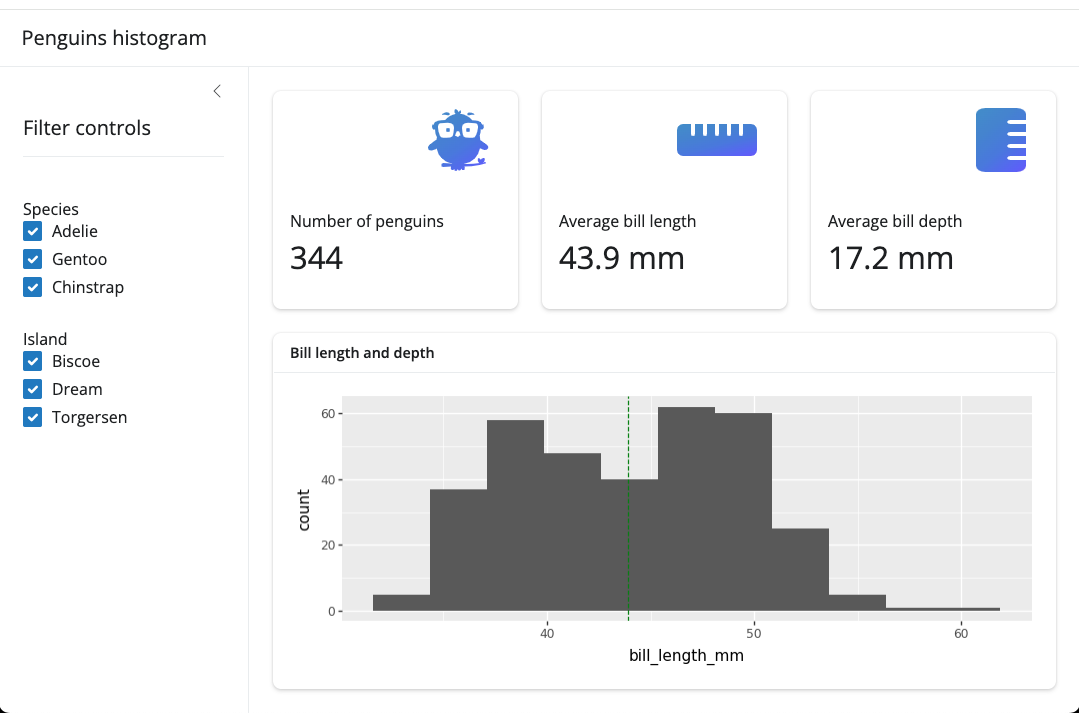
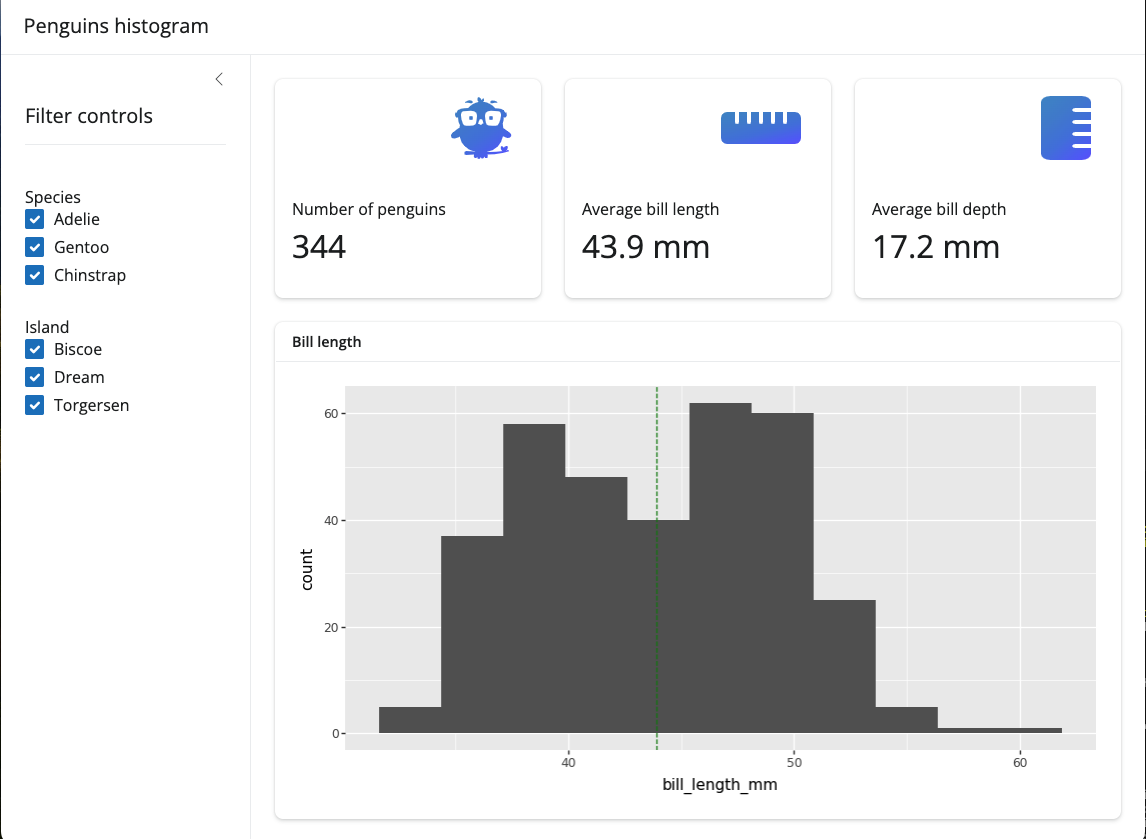
誤記訂正

diff --git a/docs/posts/shiny_for_python/index.html b/docs/posts/shiny_for_python/index.html
@@ -213,7 +213,7 @@ gtag('config', 'G-7CEVE5761Z', { 'anonymize_ip': true});
 <section id="ペンギンのヒストグラムのダッシュボード" class="level2" data-number="1">
 <h2 data-number="1" class="anchored" data-anchor-id="ペンギンのヒストグラムのダッシュボード"><span class="header-section-number">1</span> ペンギンのヒストグラムのダッシュボード</h2>
 <p>下記のコードを<code>app.py</code>として保存する。</p>
-<div id="c232ae21" class="cell" data-execution_count="1">
+<div id="31737760" class="cell" data-execution_count="1">
 <div class="sourceCode cell-code" id="cb1"><pre class="sourceCode python code-with-copy"><code class="sourceCode python"><span id="cb1-1"><a href="#cb1-1" aria-hidden="true" tabindex="-1"></a><span class="im">from</span> pathlib <span class="im">import</span> Path</span>
 <span id="cb1-2"><a href="#cb1-2" aria-hidden="true" tabindex="-1"></a><span class="im">from</span> plotnine <span class="im">import</span> ggplot, aes, geom_histogram, geom_vline</span>
 <span id="cb1-3"><a href="#cb1-3" aria-hidden="true" tabindex="-1"></a><span class="im">from</span> faicons <span class="im">import</span> icon_svg</span>
@@ -265,10 +265,10 @@ gtag('config', 'G-7CEVE5761Z', { 'anonymize_ip': true});
 <span id="cb1-49"><a href="#cb1-49" aria-hidden="true" tabindex="-1"></a></span>
 <span id="cb1-50"><a href="#cb1-50" aria-hidden="true" tabindex="-1"></a><span class="cf">with</span> ui.layout_columns():</span>
 <span id="cb1-51"><a href="#cb1-51" aria-hidden="true" tabindex="-1"></a>    <span class="cf">with</span> ui.card(full_screen<span class="op">=</span><span class="va">True</span>):</span>
-<span id="cb1-52"><a href="#cb1-52" aria-hidden="true" tabindex="-1"></a>        ui.card_header(<span class="st">"Bill length and depth"</span>)</span>
+<span id="cb1-52"><a href="#cb1-52" aria-hidden="true" tabindex="-1"></a>        ui.card_header(<span class="st">"Bill length"</span>)</span>
 <span id="cb1-53"><a href="#cb1-53" aria-hidden="true" tabindex="-1"></a></span>
 <span id="cb1-54"><a href="#cb1-54" aria-hidden="true" tabindex="-1"></a>        <span class="at">@render.plot</span></span>
-<span id="cb1-55"><a href="#cb1-55" aria-hidden="true" tabindex="-1"></a>        <span class="kw">def</span> length_depth():</span>
+<span id="cb1-55"><a href="#cb1-55" aria-hidden="true" tabindex="-1"></a>        <span class="kw">def</span> length():</span>
 <span id="cb1-56"><a href="#cb1-56" aria-hidden="true" tabindex="-1"></a>            <span class="cf">return</span> (</span>
 <span id="cb1-57"><a href="#cb1-57" aria-hidden="true" tabindex="-1"></a>                ggplot(filtered_df(), aes(x<span class="op">=</span><span class="st">"bill_length_mm"</span>))</span>
 <span id="cb1-58"><a href="#cb1-58" aria-hidden="true" tabindex="-1"></a>                <span class="op">+</span> geom_histogram()</span>
@@ -289,6 +289,8 @@ gtag('config', 'G-7CEVE5761Z', { 'anonymize_ip': true});
 <p>下記を実行するとブラウザで下図のようなダッシュボードが出てくる。</p>
 <pre><code>python3 -m shiny run --launch-browser app.py</code></pre>
 <p><img src="histogram_shiny.png" class="img-fluid"></p>
+<p>app.pyのファイルは下記</p>
+<p>https://github.com/Nobukuni-Hyakutake/statistics/blob/724a2344982aa25408accf4f82373388a0298972/trial/shiny_dashboard_02/app.py</p>
 </section>
 <section id="参考文献" class="level2" data-number="2">
 <h2 data-number="2" class="anchored" data-anchor-id="参考文献"><span class="header-section-number">2</span> 参考文献</h2>
@@ -298,7 +300,7 @@ gtag('config', 'G-7CEVE5761Z', { 'anonymize_ip': true});
 </section>
 <section id="python-version" class="level2" data-number="3">
 <h2 data-number="3" class="anchored" data-anchor-id="python-version"><span class="header-section-number">3</span> Python version</h2>
-<div id="5ccaba33" class="cell" data-execution_count="2">
+<div id="d3c9b1e4" class="cell" data-execution_count="2">
 <div class="sourceCode cell-code" id="cb3"><pre class="sourceCode python code-with-copy"><code class="sourceCode python"><span id="cb3-1"><a href="#cb3-1" aria-hidden="true" tabindex="-1"></a><span class="im">import</span> platform</span>
 <span id="cb3-2"><a href="#cb3-2" aria-hidden="true" tabindex="-1"></a><span class="co">"Python version "</span><span class="op">+</span>platform.python_version()</span></code><button title="Copy to Clipboard" class="code-copy-button"><i class="bi"></i></button></pre></div>
 <div class="cell-output cell-output-display" data-execution_count="1">
@@ -832,10 +834,10 @@ gtag('config', 'G-7CEVE5761Z', { 'anonymize_ip': true});
 <span id="cb5-70"><a href="#cb5-70" aria-hidden="true" tabindex="-1"></a></span>
 <span id="cb5-71"><a href="#cb5-71" aria-hidden="true" tabindex="-1"></a><span class="cf">with</span> ui.layout_columns():</span>
 <span id="cb5-72"><a href="#cb5-72" aria-hidden="true" tabindex="-1"></a>    <span class="cf">with</span> ui.card(full_screen<span class="op">=</span><span class="va">True</span>):</span>
-<span id="cb5-73"><a href="#cb5-73" aria-hidden="true" tabindex="-1"></a>        ui.card_header(<span class="st">"Bill length and depth"</span>)</span>
+<span id="cb5-73"><a href="#cb5-73" aria-hidden="true" tabindex="-1"></a>        ui.card_header(<span class="st">"Bill length"</span>)</span>
 <span id="cb5-74"><a href="#cb5-74" aria-hidden="true" tabindex="-1"></a></span>
 <span id="cb5-75"><a href="#cb5-75" aria-hidden="true" tabindex="-1"></a>        <span class="at">@render.plot</span></span>
-<span id="cb5-76"><a href="#cb5-76" aria-hidden="true" tabindex="-1"></a>        <span class="kw">def</span> length_depth():</span>
+<span id="cb5-76"><a href="#cb5-76" aria-hidden="true" tabindex="-1"></a>        <span class="kw">def</span> length():</span>
 <span id="cb5-77"><a href="#cb5-77" aria-hidden="true" tabindex="-1"></a>            <span class="cf">return</span> (</span>
 <span id="cb5-78"><a href="#cb5-78" aria-hidden="true" tabindex="-1"></a>                ggplot(filtered_df(), aes(x<span class="op">=</span><span class="st">"bill_length_mm"</span>))</span>
 <span id="cb5-79"><a href="#cb5-79" aria-hidden="true" tabindex="-1"></a>                <span class="op">+</span> geom_histogram()</span>
@@ -863,16 +865,20 @@ gtag('config', 'G-7CEVE5761Z', { 'anonymize_ip': true});
 <span id="cb5-101"><a href="#cb5-101" aria-hidden="true" tabindex="-1"></a></span>
 <span id="cb5-102"><a href="#cb5-102" aria-hidden="true" tabindex="-1"></a><span class="al">![](histogram_shiny.png)</span></span>
 <span id="cb5-103"><a href="#cb5-103" aria-hidden="true" tabindex="-1"></a></span>
-<span id="cb5-104"><a href="#cb5-104" aria-hidden="true" tabindex="-1"></a><span class="fu">## 参考文献</span></span>
+<span id="cb5-104"><a href="#cb5-104" aria-hidden="true" tabindex="-1"></a>app.pyのファイルは下記</span>
 <span id="cb5-105"><a href="#cb5-105" aria-hidden="true" tabindex="-1"></a></span>
-<span id="cb5-106"><a href="#cb5-106" aria-hidden="true" tabindex="-1"></a><span class="ss">- </span><span class="co">[</span><span class="ot">Shiny &gt; Install, create, &amp; run</span><span class="co">](https://shiny.posit.co/py/docs/install-create-run.html)</span></span>
+<span id="cb5-106"><a href="#cb5-106" aria-hidden="true" tabindex="-1"></a>https://github.com/Nobukuni-Hyakutake/statistics/blob/724a2344982aa25408accf4f82373388a0298972/trial/shiny_dashboard_02/app.py</span>
 <span id="cb5-107"><a href="#cb5-107" aria-hidden="true" tabindex="-1"></a></span>
-<span id="cb5-108"><a href="#cb5-108" aria-hidden="true" tabindex="-1"></a><span class="fu">## Python version</span></span>
+<span id="cb5-108"><a href="#cb5-108" aria-hidden="true" tabindex="-1"></a><span class="fu">## 参考文献</span></span>
 <span id="cb5-109"><a href="#cb5-109" aria-hidden="true" tabindex="-1"></a></span>
-<span id="cb5-112"><a href="#cb5-112" aria-hidden="true" tabindex="-1"></a><span class="in">```{python}</span></span>
-<span id="cb5-113"><a href="#cb5-113" aria-hidden="true" tabindex="-1"></a><span class="im">import</span> platform</span>
-<span id="cb5-114"><a href="#cb5-114" aria-hidden="true" tabindex="-1"></a><span class="co">"Python version "</span><span class="op">+</span>platform.python_version()</span>
-<span id="cb5-115"><a href="#cb5-115" aria-hidden="true" tabindex="-1"></a><span class="in">```</span></span>
+<span id="cb5-110"><a href="#cb5-110" aria-hidden="true" tabindex="-1"></a><span class="ss">- </span><span class="co">[</span><span class="ot">Shiny &gt; Install, create, &amp; run</span><span class="co">](https://shiny.posit.co/py/docs/install-create-run.html)</span></span>
+<span id="cb5-111"><a href="#cb5-111" aria-hidden="true" tabindex="-1"></a></span>
+<span id="cb5-112"><a href="#cb5-112" aria-hidden="true" tabindex="-1"></a><span class="fu">## Python version</span></span>
+<span id="cb5-113"><a href="#cb5-113" aria-hidden="true" tabindex="-1"></a></span>
+<span id="cb5-116"><a href="#cb5-116" aria-hidden="true" tabindex="-1"></a><span class="in">```{python}</span></span>
+<span id="cb5-117"><a href="#cb5-117" aria-hidden="true" tabindex="-1"></a><span class="im">import</span> platform</span>
+<span id="cb5-118"><a href="#cb5-118" aria-hidden="true" tabindex="-1"></a><span class="co">"Python version "</span><span class="op">+</span>platform.python_version()</span>
+<span id="cb5-119"><a href="#cb5-119" aria-hidden="true" tabindex="-1"></a><span class="in">```</span></span>
 </code><button title="Copy to Clipboard" class="code-copy-button" data-in-quarto-modal=""><i class="bi"></i></button></pre></div>
 </div></div></div></div></div>
 </div> <!-- /content -->

diff --git a/docs/index.html b/docs/index.html
@@ -301,7 +301,7 @@ Categories
 </thead>
 <tbody class="list">
 
-<tr data-index="0" data-categories="UHl0aG9u" data-listing-date-sort="1745679600000" data-listing-file-modified-sort="1745722432577" data-listing-date-modified-sort="NaN" data-listing-reading-time-sort="3" data-listing-word-count-sort="481" data-listing-title-sort="Shiny for Python" data-listing-filename-sort="index.qmd">
+<tr data-index="0" data-categories="UHl0aG9u" data-listing-date-sort="1745679600000" data-listing-file-modified-sort="1745723587296" data-listing-date-modified-sort="NaN" data-listing-reading-time-sort="3" data-listing-word-count-sort="479" data-listing-title-sort="Shiny for Python" data-listing-filename-sort="index.qmd">
 <td>
 <span class="listing-image"><img loading="lazy" src="./posts/shiny_for_python/field_mustard.jpeg" style="height: 40px;"></span>
 </td>

diff --git a/trial/shiny_dashboard_02/app.py b/trial/shiny_dashboard_02/app.py
@@ -1,4 +1,5 @@
 # https://shiny.posit.co/py/docs/overview.html#templates
+
 from pathlib import Path
 from plotnine import ggplot, aes, geom_histogram, geom_vline
 from faicons import icon_svg
@@ -50,10 +51,10 @@ with ui.layout_column_wrap(fill=False):
 
 with ui.layout_columns():
     with ui.card(full_screen=True):
-        ui.card_header("Bill length and depth")
+        ui.card_header("Bill length")
 
         @render.plot
-        def length_depth():
+        def length():
             return (
                 ggplot(filtered_df(), aes(x="bill_length_mm"))
                 + geom_histogram()
